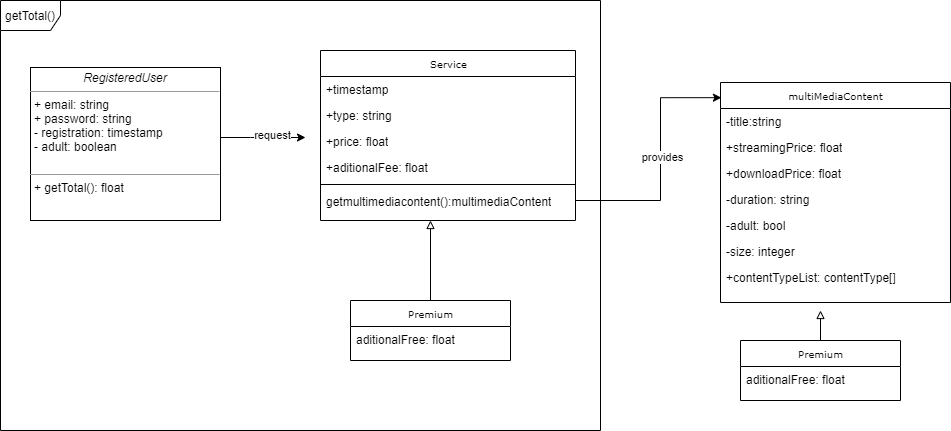
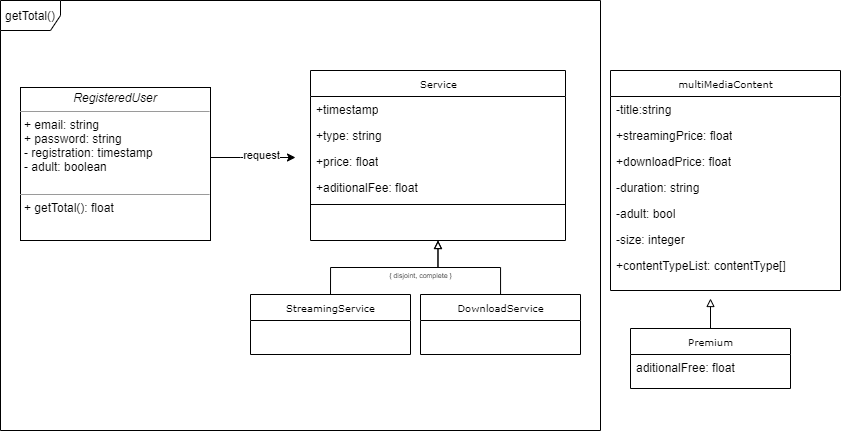
refactor(UML) refactor UML and explanation

diff --git a/README.md b/README.md
@@ -7,17 +7,21 @@ Problemas:
 ![Alt text](./doc/images/uml-original.png "mapa original")
 ![Alt text](./doc/images/original-code.png "codigo original")
 
-1 - Uno de los problemas que podria traer realizar condicionales especificos (hard-coded) a futuro, es que si en algun momento se cambia el nombre del servicio (a por ejemplo en vez de llamarse StreamingService, se llama StreamingContent) fallaran estos campos y no se tomara en cuenta el valor del servicio aunque aun exista y tenga un valor, teniendo que aplicar este cambio en todas las capas involucradas
+1 - El codigo hace uso de muchos condicionales (if) para las operaciones, a futuro esto puede resultar en un codigo dificil de mantener
 
-2- El precio no viene incluido en el servicio, si no que se debe consultar al contenido multimedia, esto podria traer problemas a futuro si se implementaran diferentes condiciones un contenido ( contenido en rebaja, que puede ser temporal), al momento de hacer el calculo, puede que la consulta nos devuelva un precio distinto al que realmente pago el usuario
+2- El precio no viene incluido en el servicio, si no que depende una segunda clase (MultimediaContent)
 
-3- el valor añadido va condicionado al tipo de contenido, dado que el campo es aditionalFee, si se quisiera añadir mas de un tipo de contenido (Premium, Exclusivo, etc...) que tiene un valor añadido, habra que hacer multiples condicionales para poder sumar el mismo campo
+3- el valor añadido va condicionado(if) al tipo de contenido, a futuro podria existir mas tipos de contenidos con valor añadido (Premium, Exclusivo, etc...)
 
-El enunciado ya menciona que el codigo es pseudocodigo, pero en el esquema UML presentado antes, no incluye se incluye el tipo en la clase de servicio, el typeof en este caso podria prestarse a confusion
+El enunciado ya menciona que el codigo es pseudocodigo, pero como notas:
+
+ - el uso de "typeof" retorna uno de los tipos basicos (string, boolean, object, function), no puede ser utilizado para comprobar si una variable es instancia de una clase (en ese caso usariamos "instanceOf")
+
+ - como esperamos recibir un valor unico a partir de un array, podemos utilizar el metodo "reduce" en vez de "forEach" (haciendo el codigo mas semantico y legible)
 
 Soluciones:
 
-![Alt text](./doc/images/uml-modified.png "mapa maodificado")
+![Alt text](./doc/images/uml-modified.png "mapa modificado")
 
  ```js
   class RegisteredUser{
@@ -40,11 +44,9 @@ Soluciones:
     
 ```
 
-1 - dado que ya se incluye el tipo en cada objeto del servicio, con el timestamp (que se da a entender que es del momento en el que se contrato por el servicio), no hace falta mirar que tipo es cada servicio contratado, ya que a fines del calculo total solo nos interesa el precio, si a futuro quisieramos filtrar por tipos se podria implementar
+1 - Se aplica el principio (KISS), dado que los precios (tanto el precio base como el aditionalFee) vienen incluido en el servicio directamente
 
-2- El precio viene incluido en el servicio, y tendremos el precio exacto en el que se pago en su momento por el contenido (podria resultar util a futuro si se quiere mostrar cual fue el importe adicional)
-
-3- el valor añadido va incluido en el objecto servicio, teniendo asi el valor añadido del momento en el que se hizo el pago, sin tener que consultar al servicio multimedia con el riesgo de que las condiciones del contenido hayan cambiado
+2-  Se depende solamente de la clase mas cercana "Service" y no de la segunda clase "MultimediaContent" que si a futuro llegase a cambiar, afectaria al comportamiento (ley de Demeter)
 
 ## Exercise 2
 * [React Marker Demo](maps-watcher/README.md)
